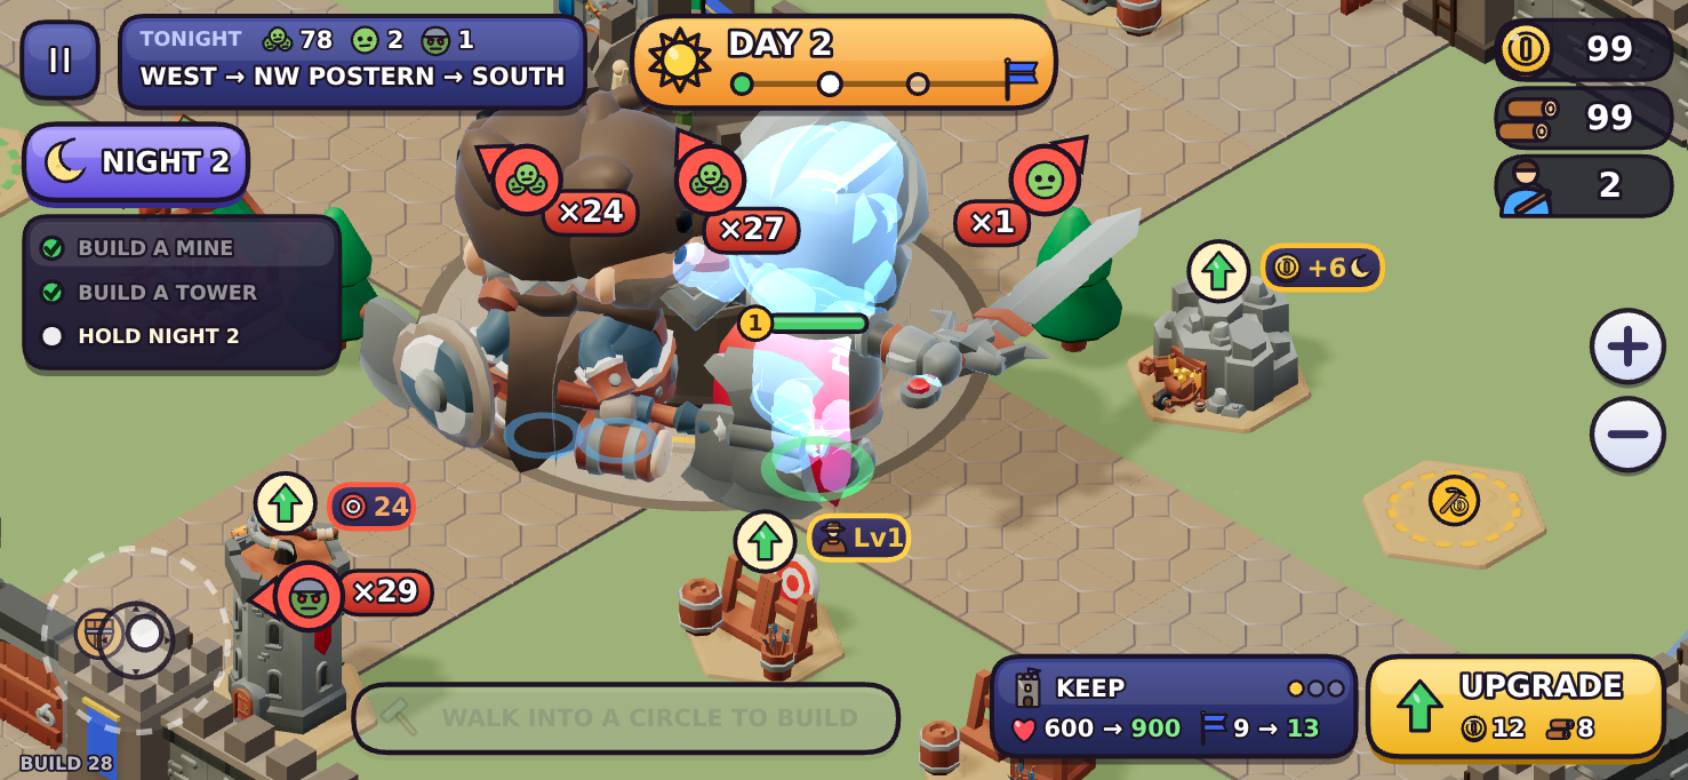
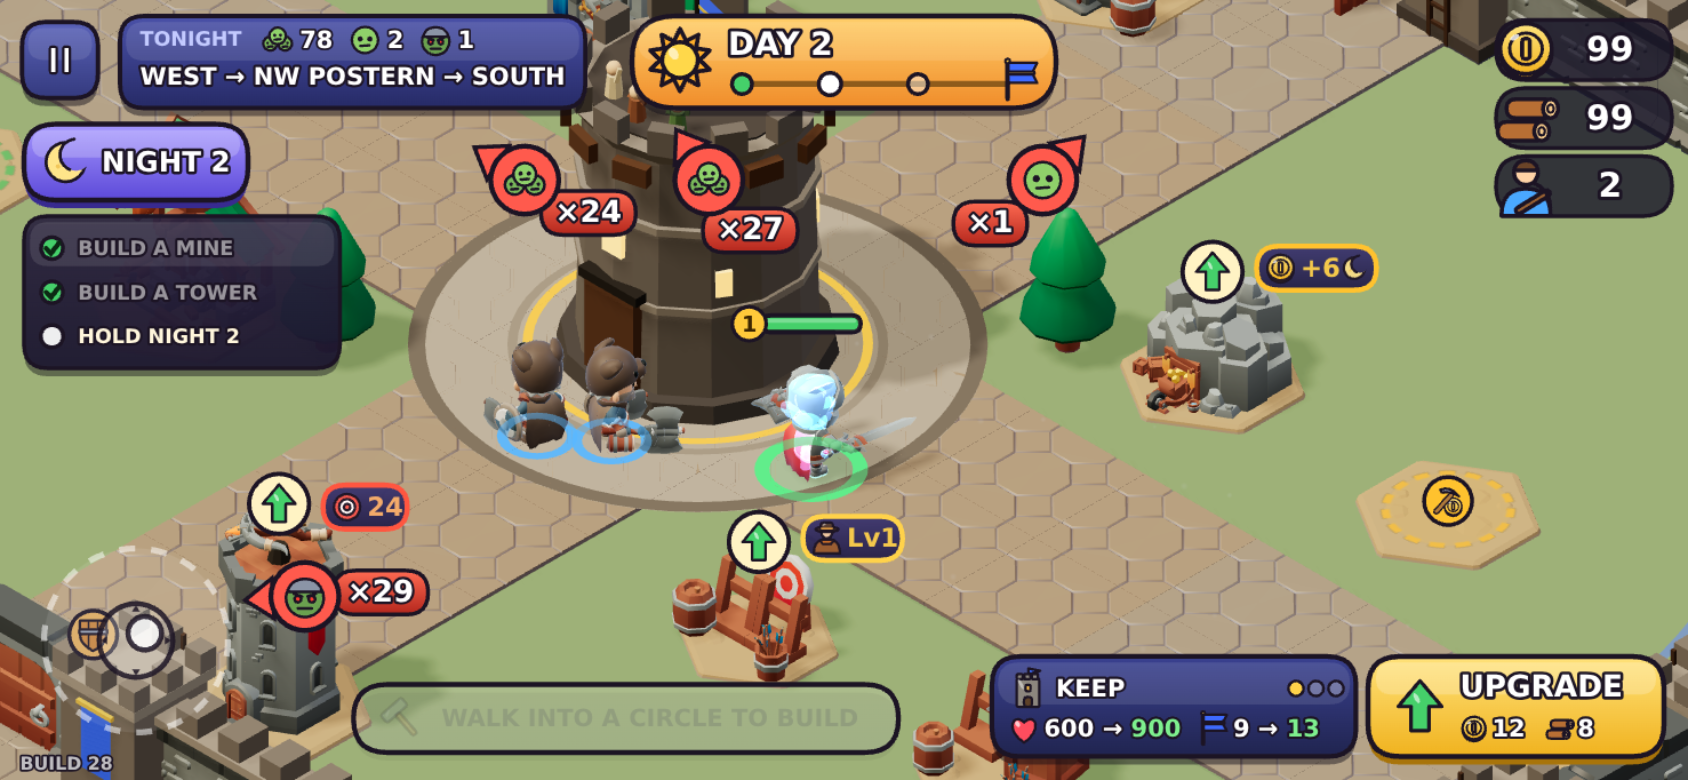
BUILD 28 size ROOT-CAUSE: normalisasi kaykit via wrapper group (consumer menimpa model.scale) — hero kini tepat heightPx (kapten 98.8px, guard 93.5px, horde 84.8px); probe-size-audit + evidence vision baru

diff --git a/src/game/render3d/kaykit3d.js b/src/game/render3d/kaykit3d.js
@@ -149,14 +149,22 @@ export const People3D = {
     if (this._promise) return this._promise;
     this._promise = Promise.all(Object.entries(KAYKIT_HERO_URLS).map(async ([name, url]) => {
       const gltf = await load(url);
-      const root = gltf.scene;
-      root.updateMatrixWorld(true);
-      const box = new THREE.Box3().setFromObject(root);
+      const raw = gltf.scene;
+      raw.updateMatrixWorld(true);
+      const box = new THREE.Box3().setFromObject(raw);
       const height = Math.max(0.001, box.max.y - box.min.y);
-      // pack3d contract: people stand 1 unit tall with feet on y = 0
-      root.scale.setScalar(1 / height);
-      root.position.y = -box.min.y / height;
+      // pack3d contract: people stand 1 unit tall with feet on y = 0.
+      // CRITICAL (build 28 size bug, user: "size sangat tidak tepat"): the
+      // consumers (troop3d/valen3d) OVERWRITE model.scale with their own
+      // heightPx factor, so the 1/h normalisation must NOT live on the node
+      // they scale — pack3d baked it into geometry for the egyptian pack;
+      // here a wrapper group carries it instead, or every hero drew 2.4x
+      // too tall (the keep-plaza giants the user saw).
+      const root = new THREE.Group();
       root.name = `kaykit-hero-${name}`;
+      raw.scale.setScalar(1 / height);
+      raw.position.y = -box.min.y / height;
+      root.add(raw);
       this.people.set(name, { root, clips: renamedClips(gltf.animations, HERO_CLIP_SRC) });
     })).then(() => {
       this.ready = true;

diff --git a/src/game/render3d/crowd3d.js b/src/game/render3d/crowd3d.js
@@ -34,9 +34,9 @@ import { EnvKit } from './envkit.js';
 
 /** Which rigs the horde is made of, and how much of it each one is (%). */
 export const CROWD_KINDS = Object.freeze([
-  Object.freeze({ key: 'shambler', share: 58, height: 76, hover: 0 }),
-  Object.freeze({ key: 'lurcher', share: 26, height: 62, hover: 0 }),
-  Object.freeze({ key: 'wretch', share: 16, height: 72, hover: 0 }),
+  Object.freeze({ key: 'shambler', share: 58, height: 53, hover: 0 }), // build 28: 76 * KAYKIT_CAST_SCALE (heights are multiplied by actorScale 1.6 at sync)
+  Object.freeze({ key: 'lurcher', share: 26, height: 43, hover: 0 }), // build 28: 62 * KAYKIT_CAST_SCALE
+  Object.freeze({ key: 'wretch', share: 16, height: 50, hover: 0 }), // build 28: 72 * KAYKIT_CAST_SCALE
 ]);
 /** Clips baked per kind (names resolve through ENEMY_MODELS[key].map). */
 const BAKE = Object.freeze([
